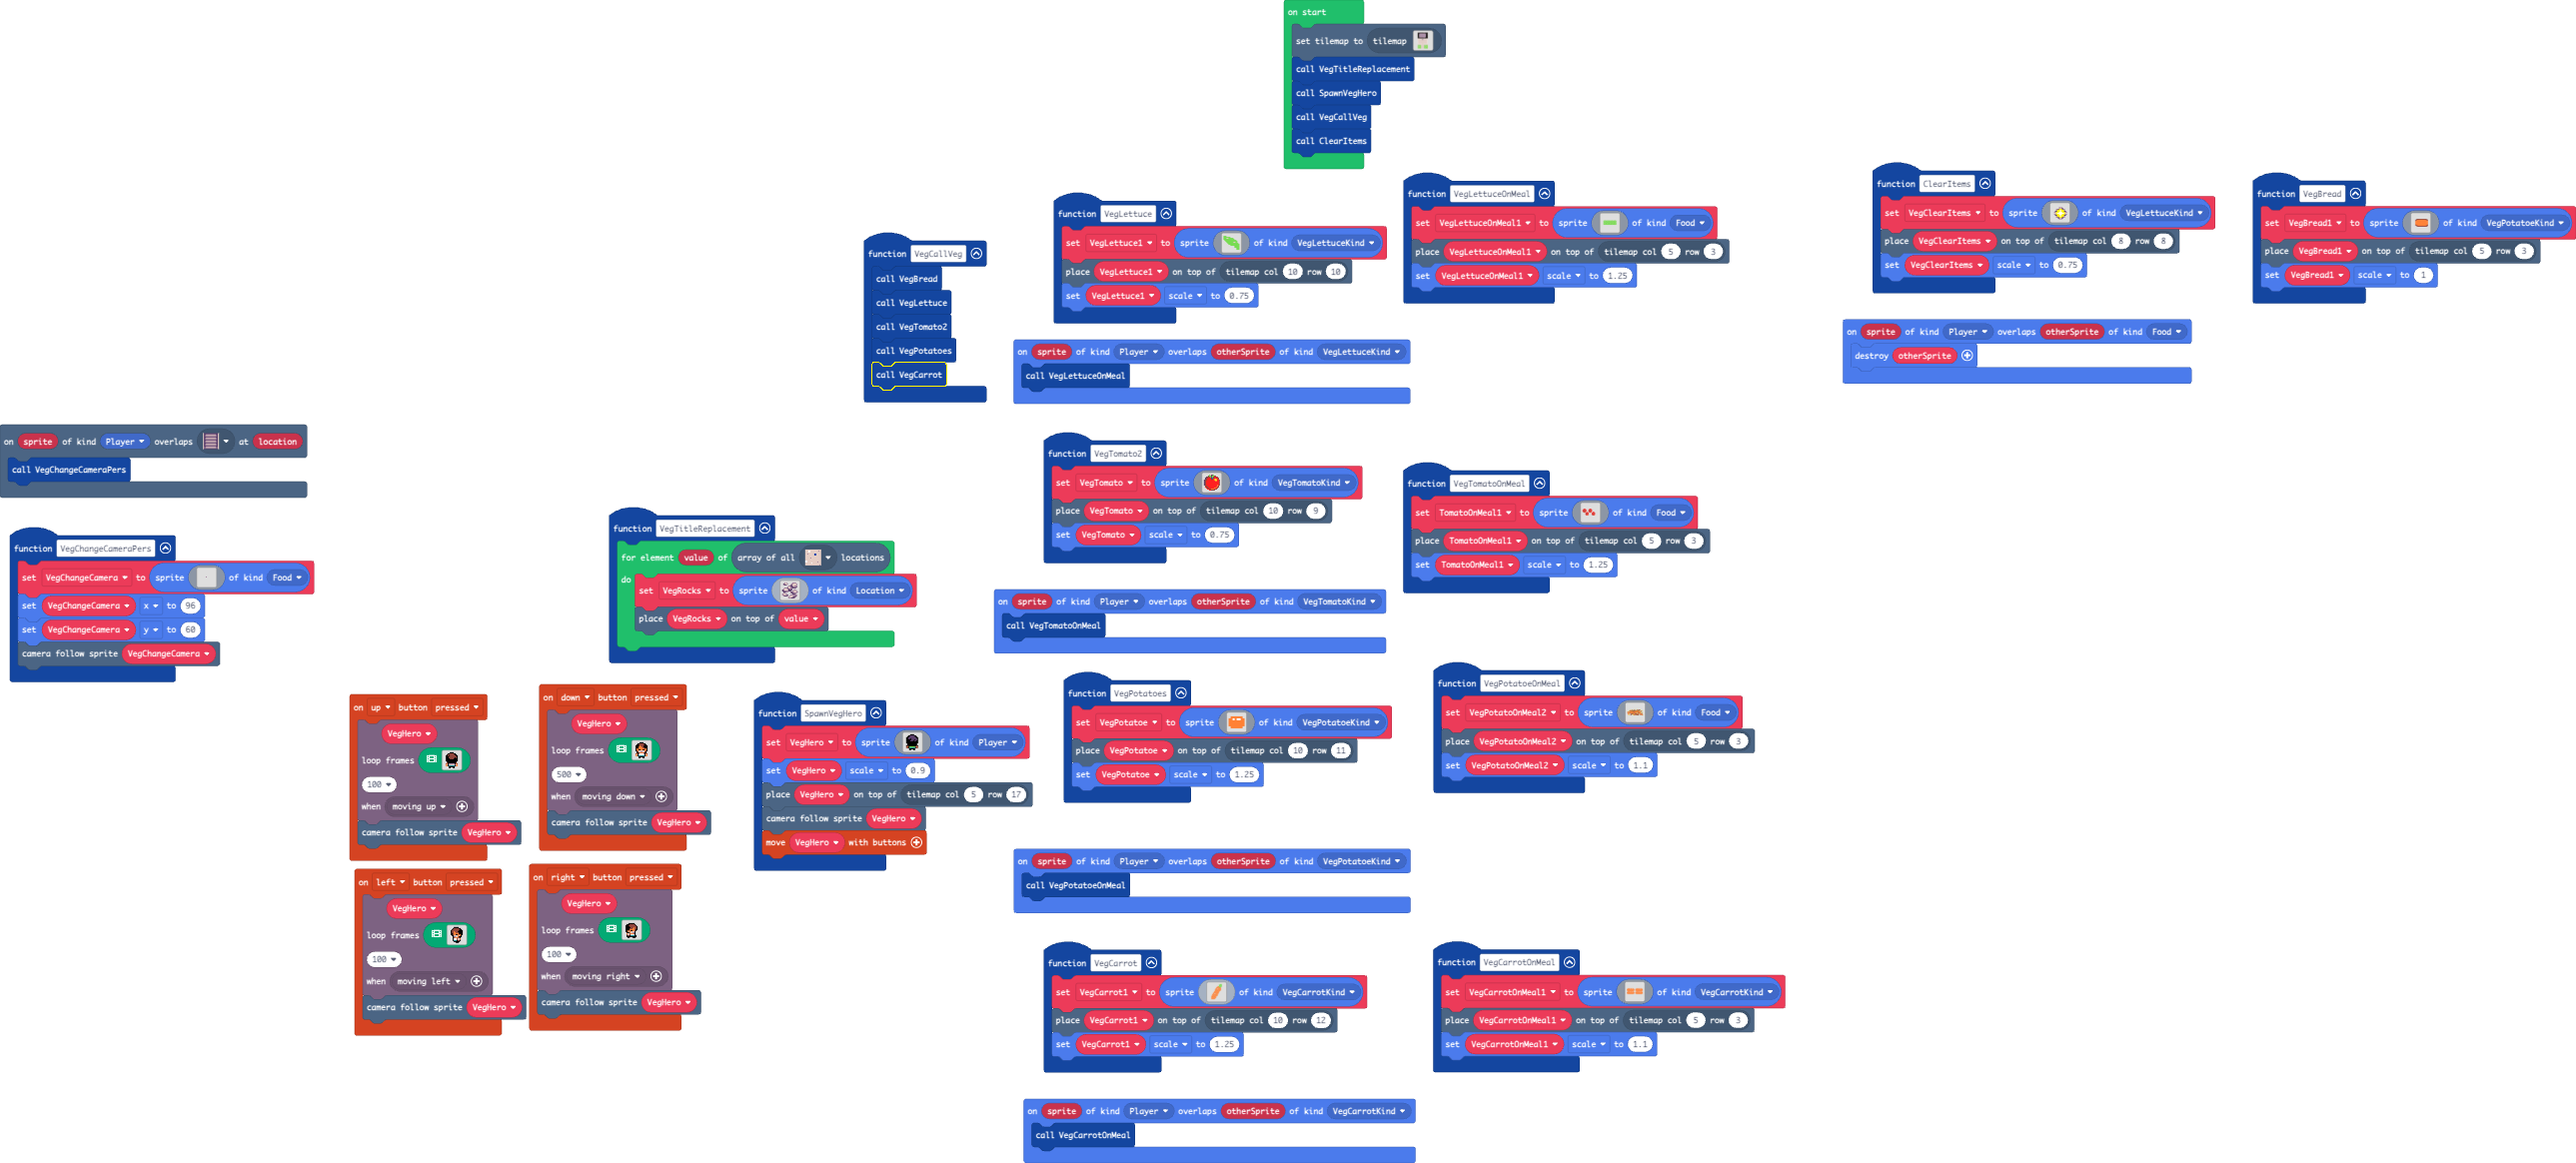
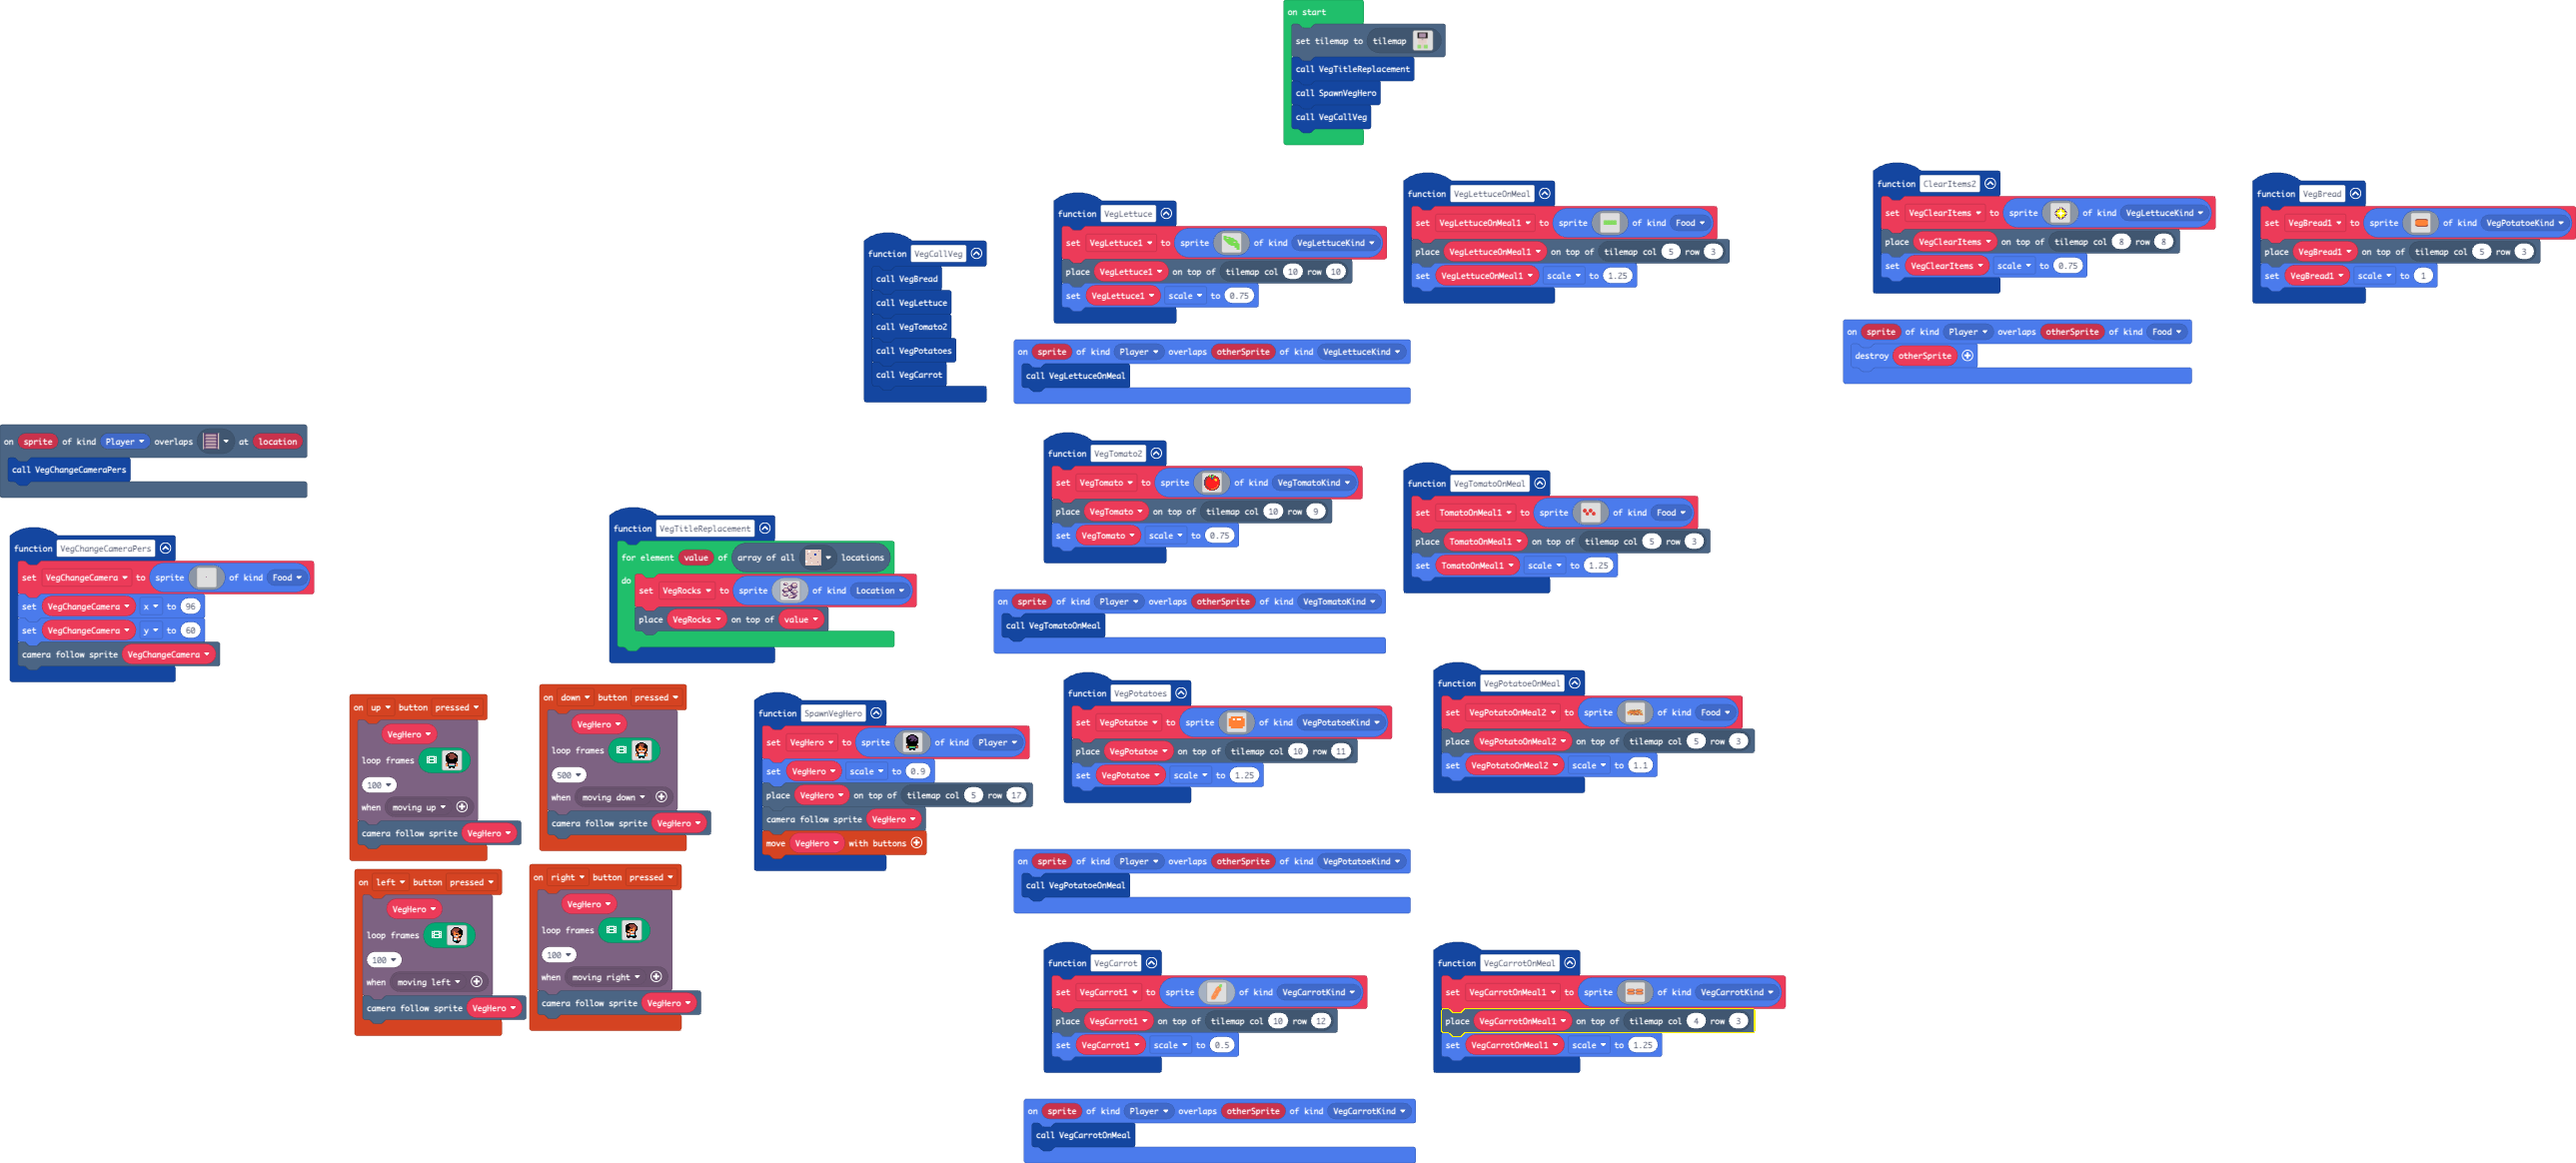
Update main.blocks, main.ts

diff --git a/main.ts b/main.ts
@@ -278,30 +278,30 @@ function VegCarrotOnMeal () {
         .................................................
         .................................................
         .................................................
-        ...44444444444444444.........44444444444444444...
-        .444444444114441114444.....444444444114441114444.
-        44444444444444444444444...44444444444444444444444
-        44444444444444444444444...44444444444444444444444
-        44444444444444444444444...44444444444444444444444
-        44444444444444444444444...44444444444444444444444
-        .444444444444444444444.....444444444444444444444.
-        ...44444444444444444.........44444444444444444...
+        ...eeeeeeeeeeeeeeeee.........eeeeeeeeeeeeeeeee...
+        .eee444444114441114eee.....eee444444114441114eee.
+        ee4444444444444444444ee...ee4444444444444444444ee
+        e444444444444444444444e...e444444444444444444444e
+        e444444444444444444444e...e444444444444444444444e
+        ee4444444444444444444ee...ee4444444444444444444ee
+        .eee444444444444444eee.....eee444444444444444eee.
+        ...eeeeeeeeeeeeeeeee.........eeeeeeeeeeeeeeeee...
         .................................................
-        ...44444444444444444.........44444444444444444...
-        .444444444114441114444.....444444444114441114444.
-        44444444444444444444444...44444444444444444444444
-        44444444444444444444444...44444444444444444444444
-        44444444444444444444444...44444444444444444444444
-        44444444444444444444444...44444444444444444444444
-        .444444444444444444444.....444444444444444444444.
-        ...44444444444444444.........44444444444444444...
+        ...eeeeeeeeeeeeeeeee.........eeeeeeeeeeeeeeeee...
+        .ee4444444114441114eee.....eee444444114441114eee.
+        ee4444444444444444444ee...ee4444444444444444444ee
+        e444444444444444444444e...e444444444444444444444e
+        e444444444444444444444e...e444444444444444444444e
+        ee4444444444444444444ee...ee4444444444444444444ee
+        .eee444444444444444eee.....eee444444444444444eee.
+        ...eeeeeeeeeeeeeeeee.........eeeeeeeeeeeeeeeee...
         .................................................
         .................................................
         .................................................
         .................................................
         `, SpriteKind.VegCarrotKind)
-    tiles.placeOnTile(VegCarrotOnMeal1, tiles.getTileLocation(5, 3))
-    VegCarrotOnMeal1.scale = 1.1
+    tiles.placeOnTile(VegCarrotOnMeal1, tiles.getTileLocation(4, 3))
+    VegCarrotOnMeal1.scale = 1.25
 }
 function VegTomatoOnMeal () {
     TomatoOnMeal1 = sprites.create(img`
@@ -518,29 +518,7 @@ function VegCarrot () {
         ................
         `, SpriteKind.VegCarrotKind)
     tiles.placeOnTile(VegCarrot1, tiles.getTileLocation(10, 12))
-    VegCarrot1.scale = 1.25
-}
-function ClearItems () {
-    VegClearItems = sprites.create(img`
-        . . . . . . . . . . . . . . . . 
-        . . . . . . . . . . . . . . . . 
-        . . . . . . . b d b . . . . . . 
-        . . . . . . . b d b c . . . . . 
-        . . . . b b c 5 5 5 c b b . . . 
-        . . . . b 5 5 5 1 5 5 5 b . . . 
-        . . . c c 5 5 5 1 5 5 5 c c . . 
-        . . b b 5 5 5 1 1 1 5 5 5 b b . 
-        . . d d 5 1 1 1 1 1 1 1 5 d d . 
-        . . b b 5 5 5 1 1 1 5 5 5 b b . 
-        . . . c c 5 5 5 1 5 5 5 c c . . 
-        . . . . b 5 5 5 1 5 5 5 b . . . 
-        . . . . b b c 5 5 5 c b b . . . 
-        . . . . . . c b d b c . . . . . 
-        . . . . . . . b d b . . . . . . 
-        . . . . . . . . . . . . . . . . 
-        `, SpriteKind.VegLettuceKind)
-    tiles.placeOnTile(VegClearItems, tiles.getTileLocation(8, 8))
-    VegClearItems.scale = 0.75
+    VegCarrot1.scale = 0.5
 }
 controller.down.onEvent(ControllerButtonEvent.Pressed, function () {
     characterAnimations.loopFrames(
@@ -640,6 +618,28 @@ function VegPotatoes () {
 sprites.onOverlap(SpriteKind.Player, SpriteKind.VegLettuceKind, function (sprite, otherSprite) {
     VegLettuceOnMeal()
 })
+function ClearItems2 () {
+    VegClearItems = sprites.create(img`
+        . . . . . . . . . . . . . . . . 
+        . . . . . . . . . . . . . . . . 
+        . . . . . . . b d b . . . . . . 
+        . . . . . . . b d b c . . . . . 
+        . . . . b b c 5 5 5 c b b . . . 
+        . . . . b 5 5 5 1 5 5 5 b . . . 
+        . . . c c 5 5 5 1 5 5 5 c c . . 
+        . . b b 5 5 5 1 1 1 5 5 5 b b . 
+        . . d d 5 1 1 1 1 1 1 1 5 d d . 
+        . . b b 5 5 5 1 1 1 5 5 5 b b . 
+        . . . c c 5 5 5 1 5 5 5 c c . . 
+        . . . . b 5 5 5 1 5 5 5 b . . . 
+        . . . . b b c 5 5 5 c b b . . . 
+        . . . . . . c b d b c . . . . . 
+        . . . . . . . b d b . . . . . . 
+        . . . . . . . . . . . . . . . . 
+        `, SpriteKind.VegLettuceKind)
+    tiles.placeOnTile(VegClearItems, tiles.getTileLocation(8, 8))
+    VegClearItems.scale = 0.75
+}
 sprites.onOverlap(SpriteKind.Player, SpriteKind.Food, function (sprite, otherSprite) {
     sprites.destroy(otherSprite)
 })
@@ -649,9 +649,9 @@ sprites.onOverlap(SpriteKind.Player, SpriteKind.VegCarrotKind, function (sprite,
 sprites.onOverlap(SpriteKind.Player, SpriteKind.VegTomatoKind, function (sprite, otherSprite) {
     VegTomatoOnMeal()
 })
+let VegClearItems: Sprite = null
 let VegPotatoe: Sprite = null
 let VegRocks: Sprite = null
-let VegClearItems: Sprite = null
 let VegCarrot1: Sprite = null
 let VegChangeCamera: Sprite = null
 let TomatoOnMeal1: Sprite = null
@@ -666,4 +666,3 @@ tiles.setCurrentTilemap(tilemap`level2`)
 VegTitleReplacement()
 SpawnVegHero()
 VegCallVeg()
-ClearItems()
